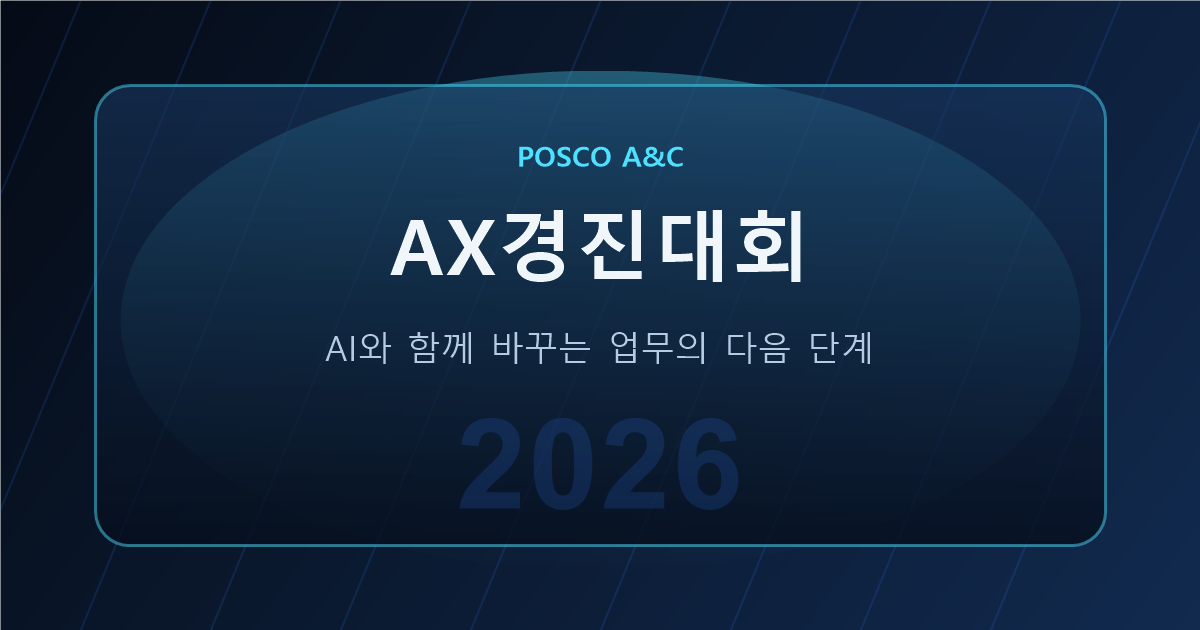
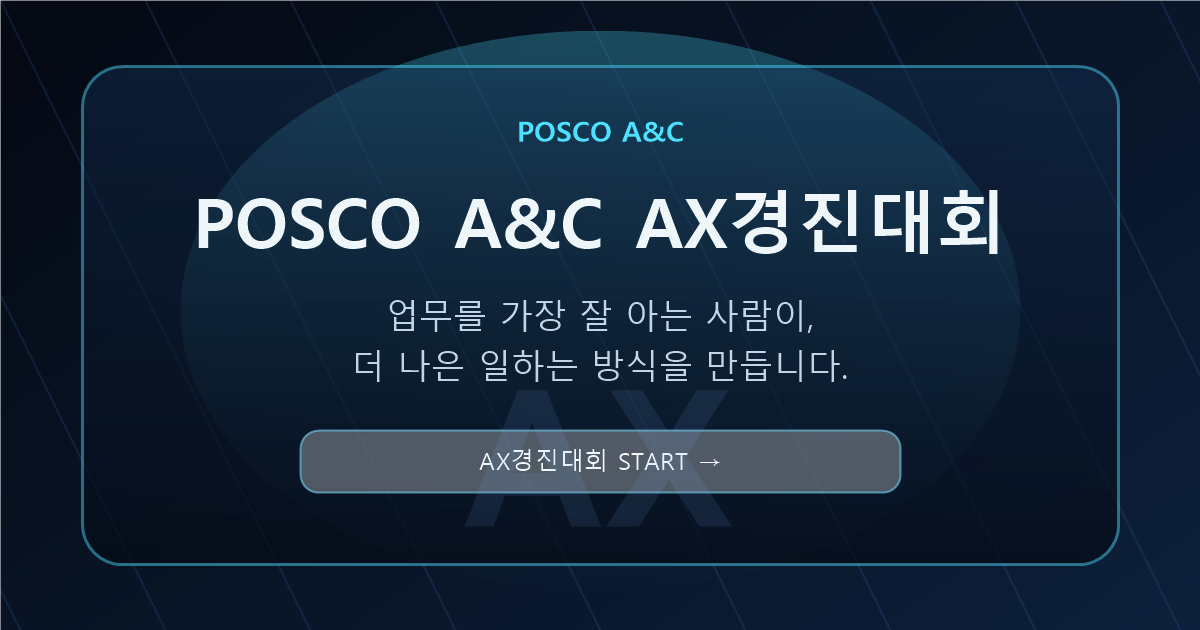
Update social preview hero image

diff --git a/index.html b/index.html
@@ -4,22 +4,22 @@
 <meta charset="utf-8">
 <meta name="viewport" content="width=device-width, initial-scale=1">
 <title>POSCO A&C AX경진대회</title>
-<meta name="description" content="AI와 함께 바꾸는 업무의 다음 단계, POSCO A&C AX경진대회">
+<meta name="description" content="업무를 가장 잘 아는 사람이, 더 나은 일하는 방식을 만듭니다.">
 <meta property="og:type" content="website">
 <meta property="og:site_name" content="POSCO A&C AX경진대회">
 <meta property="og:title" content="POSCO A&C AX경진대회">
-<meta property="og:description" content="AI와 함께 바꾸는 업무의 다음 단계">
+<meta property="og:description" content="업무를 가장 잘 아는 사람이, 더 나은 일하는 방식을 만듭니다.">
 <meta property="og:url" content="https://2026axanc.vercel.app/">
-<meta property="og:image" content="https://2026axanc.vercel.app/og-image.png?v=20260711">
-<meta property="og:image:secure_url" content="https://2026axanc.vercel.app/og-image.png?v=20260711">
+<meta property="og:image" content="https://2026axanc.vercel.app/og-image.png?v=20260711-hero">
+<meta property="og:image:secure_url" content="https://2026axanc.vercel.app/og-image.png?v=20260711-hero">
 <meta property="og:image:type" content="image/png">
 <meta property="og:image:width" content="1200">
 <meta property="og:image:height" content="630">
 <meta name="twitter:card" content="summary_large_image">
 <meta name="twitter:title" content="POSCO A&C AX경진대회">
-<meta name="twitter:description" content="AI와 함께 바꾸는 업무의 다음 단계">
-<meta name="twitter:image" content="https://2026axanc.vercel.app/og-image.png?v=20260711">
-<link rel="image_src" href="https://2026axanc.vercel.app/og-image.png?v=20260711">
+<meta name="twitter:description" content="업무를 가장 잘 아는 사람이, 더 나은 일하는 방식을 만듭니다.">
+<meta name="twitter:image" content="https://2026axanc.vercel.app/og-image.png?v=20260711-hero">
+<link rel="image_src" href="https://2026axanc.vercel.app/og-image.png?v=20260711-hero">
 <script src="./support.js"></script>
 </head>
 <body>